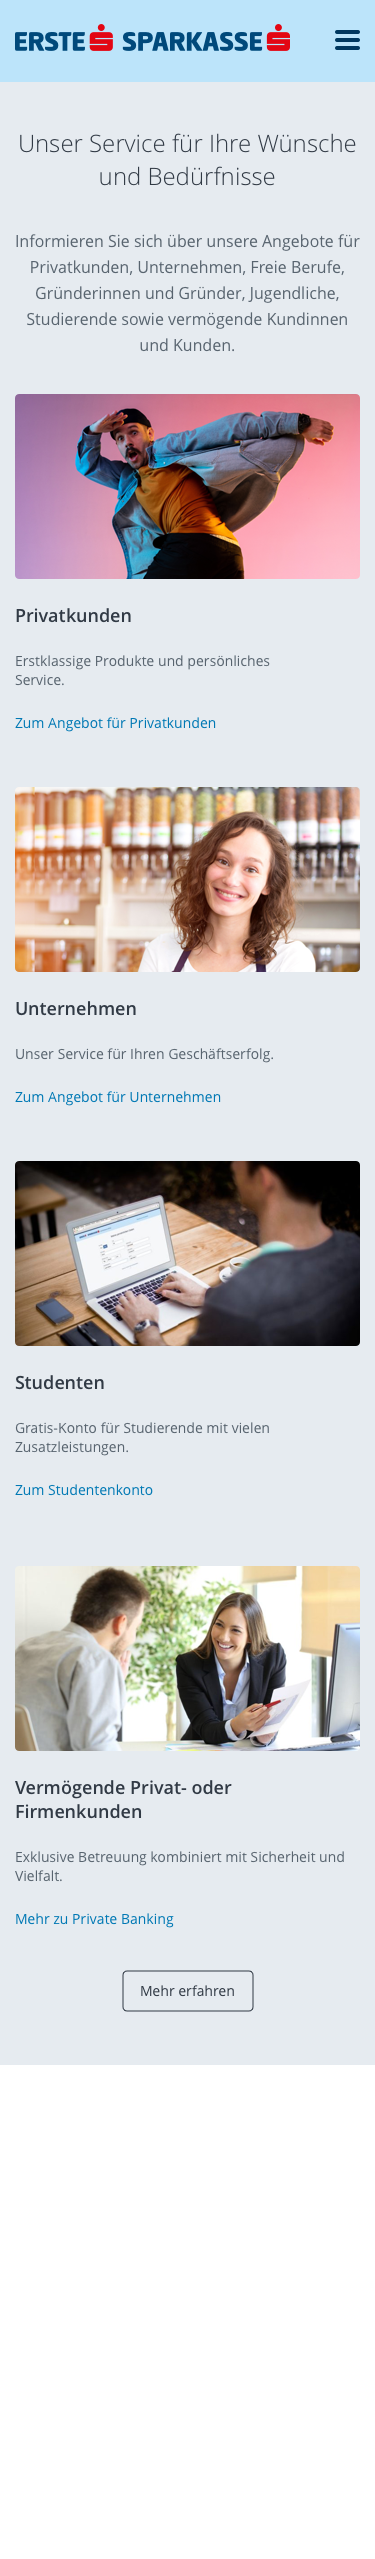
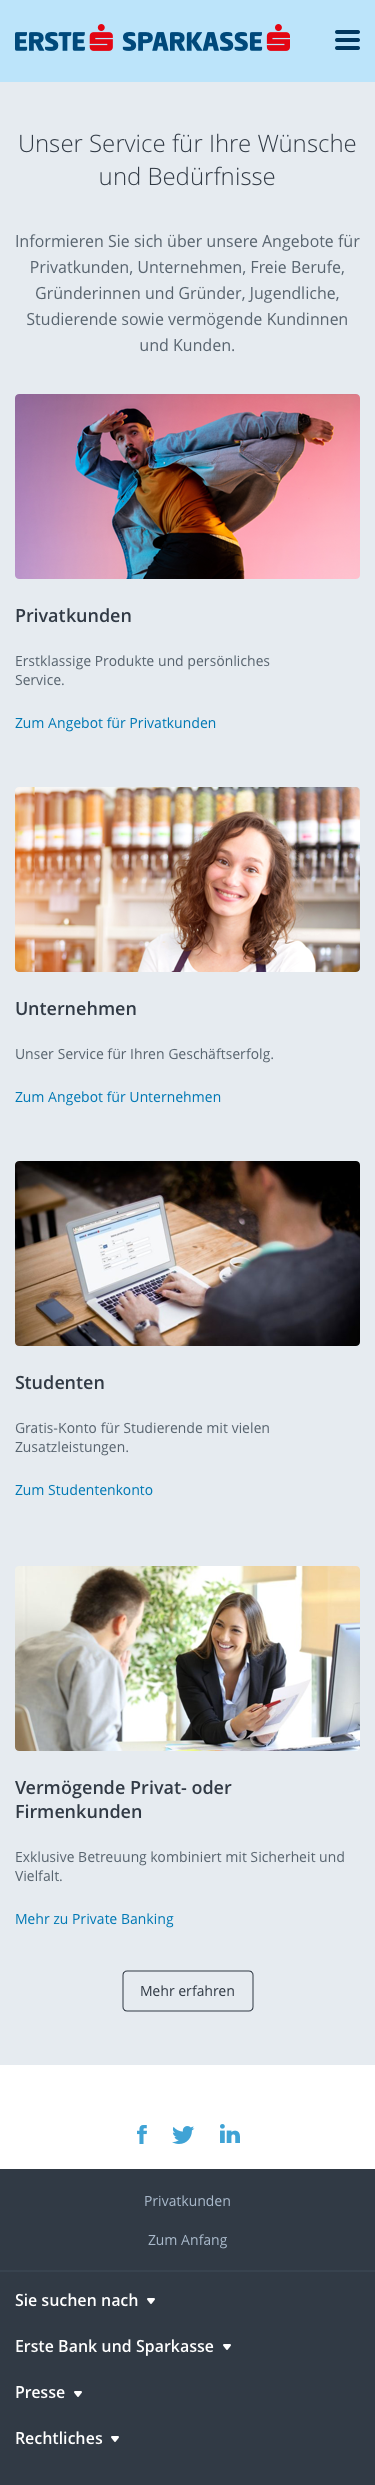
Finalized designs; building page structure, styles

diff --git a/src/index.html b/src/index.html
@@ -1,12 +1,46 @@
 <!doctype html>
 <html>
-  <head>
+  
+<head>
     <title>UI UX engineer exercise</title>
-  </head>
-  <body>
-      <header>
-          <div class="header__topbar"></div>
-          <div class="header__main"></div>
+</head>
+
+<body>
+    
+    <header class="header header--desktop">
+          
+        <div class="header__topbar">
+
+            <div class="wrapper">
+
+                <span class="topbar__claim">#glaubandich</span>
+
+                <ul class="topbar__nav">
+                    <li class="topbar__item">
+                        <a href="#">Filiale suchen</a>
+                    </li>
+                    <li class="topbar__item">
+                        <a href="#">Sparkasse wählen</a>
+                    </li>
+                </ul>
+
+            </div>
+              
+        </div>
+          
+          <div class="header__main">
+
+            <div class="wrapper">
+                <nav></nav>
+            </div>
+              
+          </div>
       </header>
+
+      <div class="header header--mobile"></div>
+      
+      <footer>
+
+      </footer>
   </body>
 </html>

diff --git a/src/styles/base/_page.scss b/src/styles/base/_page.scss
@@ -1,0 +1,19 @@
+html {
+    height: 100%;
+    font-size: 62.5%;
+    -webkit-tap-highlight-color: transparent;
+}
+
+body {
+    color: $color-text;
+    line-height: map-get($line-height, base);
+    margin: 0;
+    -webkit-font-smoothing: antialiased;
+    -moz-osx-font-smoothing: grayscale;
+
+    *,
+    &:before,
+    &:after {
+        box-sizing: border-box;
+    }
+}

diff --git a/src/styles/utils/_variables.scss b/src/styles/utils/_variables.scss
@@ -1,0 +1,8 @@
+// spacing variables
+$spacing: (0: 0, 1: .6rem, base: 1.5rem);
+$content-width: 120rem;
+
+// typography variables
+$font-weight: (light: 300, regular: 400, semibold: 600, bold: 700);
+$font-size: (1: 3.6rem, 2: 3.2rem, 3: 2.4rem, 4: 1.6rem, 5: 1.4rem, 6: 1.2rem);
+$line-height: (small: 1.25, base: 1.5, large: 1.75);

diff --git a/src/styles/base/_layout.scss b/src/styles/base/_layout.scss
@@ -1,0 +1,7 @@
+.wrapper {
+    max-width: $content-width;
+    margin: 0 auto;
+    padding-left: map-get($spacing, base);
+    padding-right: map-get($spacing, base);
+    position: relative;
+}

diff --git a/src/styles/components/_header.scss b/src/styles/components/_header.scss
@@ -1,0 +1,9 @@
+.header {
+    background-color: #bce4fa;
+
+    &__topbar {
+        background-color: #00497b;
+        color: $color-white;
+        font-size: map-get($font-size, 5);
+    }
+}

diff --git a/src/style.scss b/src/style.scss
@@ -1,7 +1,8 @@
 @import "styles/utils/styles";
+@import "styles/base/styles";
+@import "styles/components/styles";
 
 body {
-	background-color: blue;
     
     p {
 		color: $color-link;

diff --git a/src/styles/components/_list.scss b/src/styles/components/_list.scss
@@ -1,0 +1,6 @@
+ul,
+ol {
+    list-style: none;
+    margin: 0;
+    padding: 0;
+}

diff --git a/src/styles/utils/_colors.scss b/src/styles/utils/_colors.scss
@@ -1,1 +1,3 @@
 $color-link: #0078b4;
+$color-text: #58646f;
+$color-white: #fff;

diff --git a/src/styles/utils/styles.scss b/src/styles/utils/styles.scss
@@ -1,1 +1,3 @@
 @import "colors";
+@import "spacings";
+@import "variables";

diff --git a/src/styles/base/styles.scss b/src/styles/base/styles.scss
@@ -1,0 +1,2 @@
+@import "page";
+@import "layout";

diff --git a/src/styles/components/styles.scss b/src/styles/components/styles.scss
@@ -1,0 +1,2 @@
+@import "header";
+@import "list";

diff --git a/README.md b/README.md
@@ -1,2 +1,4 @@
-# ui_ux_engineer_exercise
-Practical exercise for the UI/UX Engineer job role
+# ui-ux-engineer-exercise
+Welcome to the 2nd part of the final round of UI/UX Engineer job role interview.
+
+Please find attached designs with design specifications as a task that you are going to work on. With use of SCSS and HTML create components as close to design as possible. 
